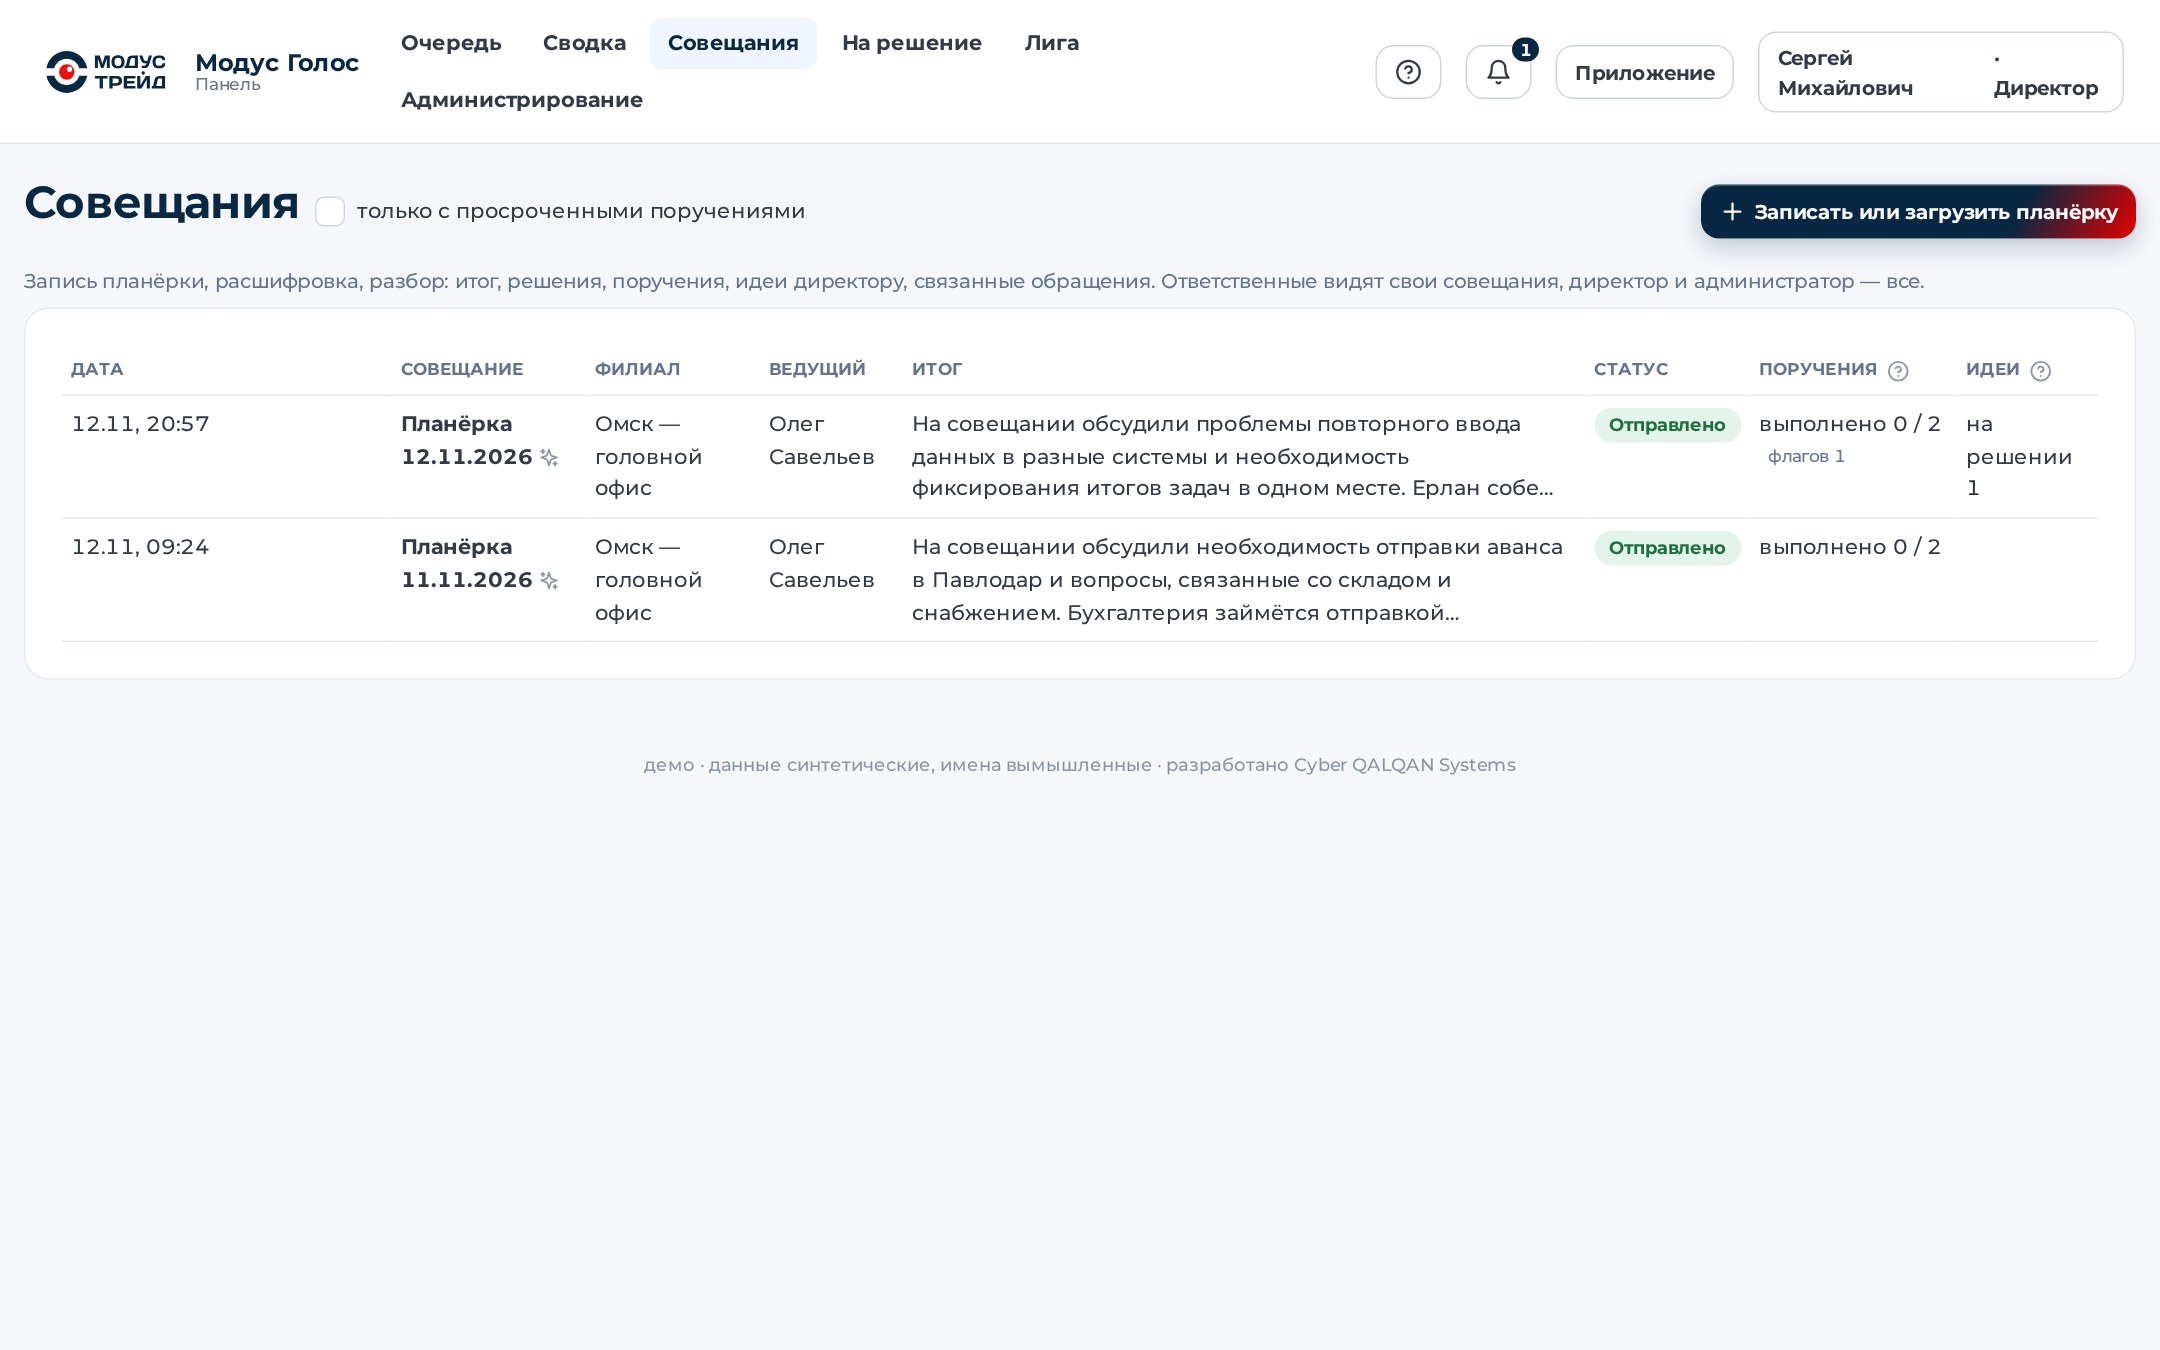
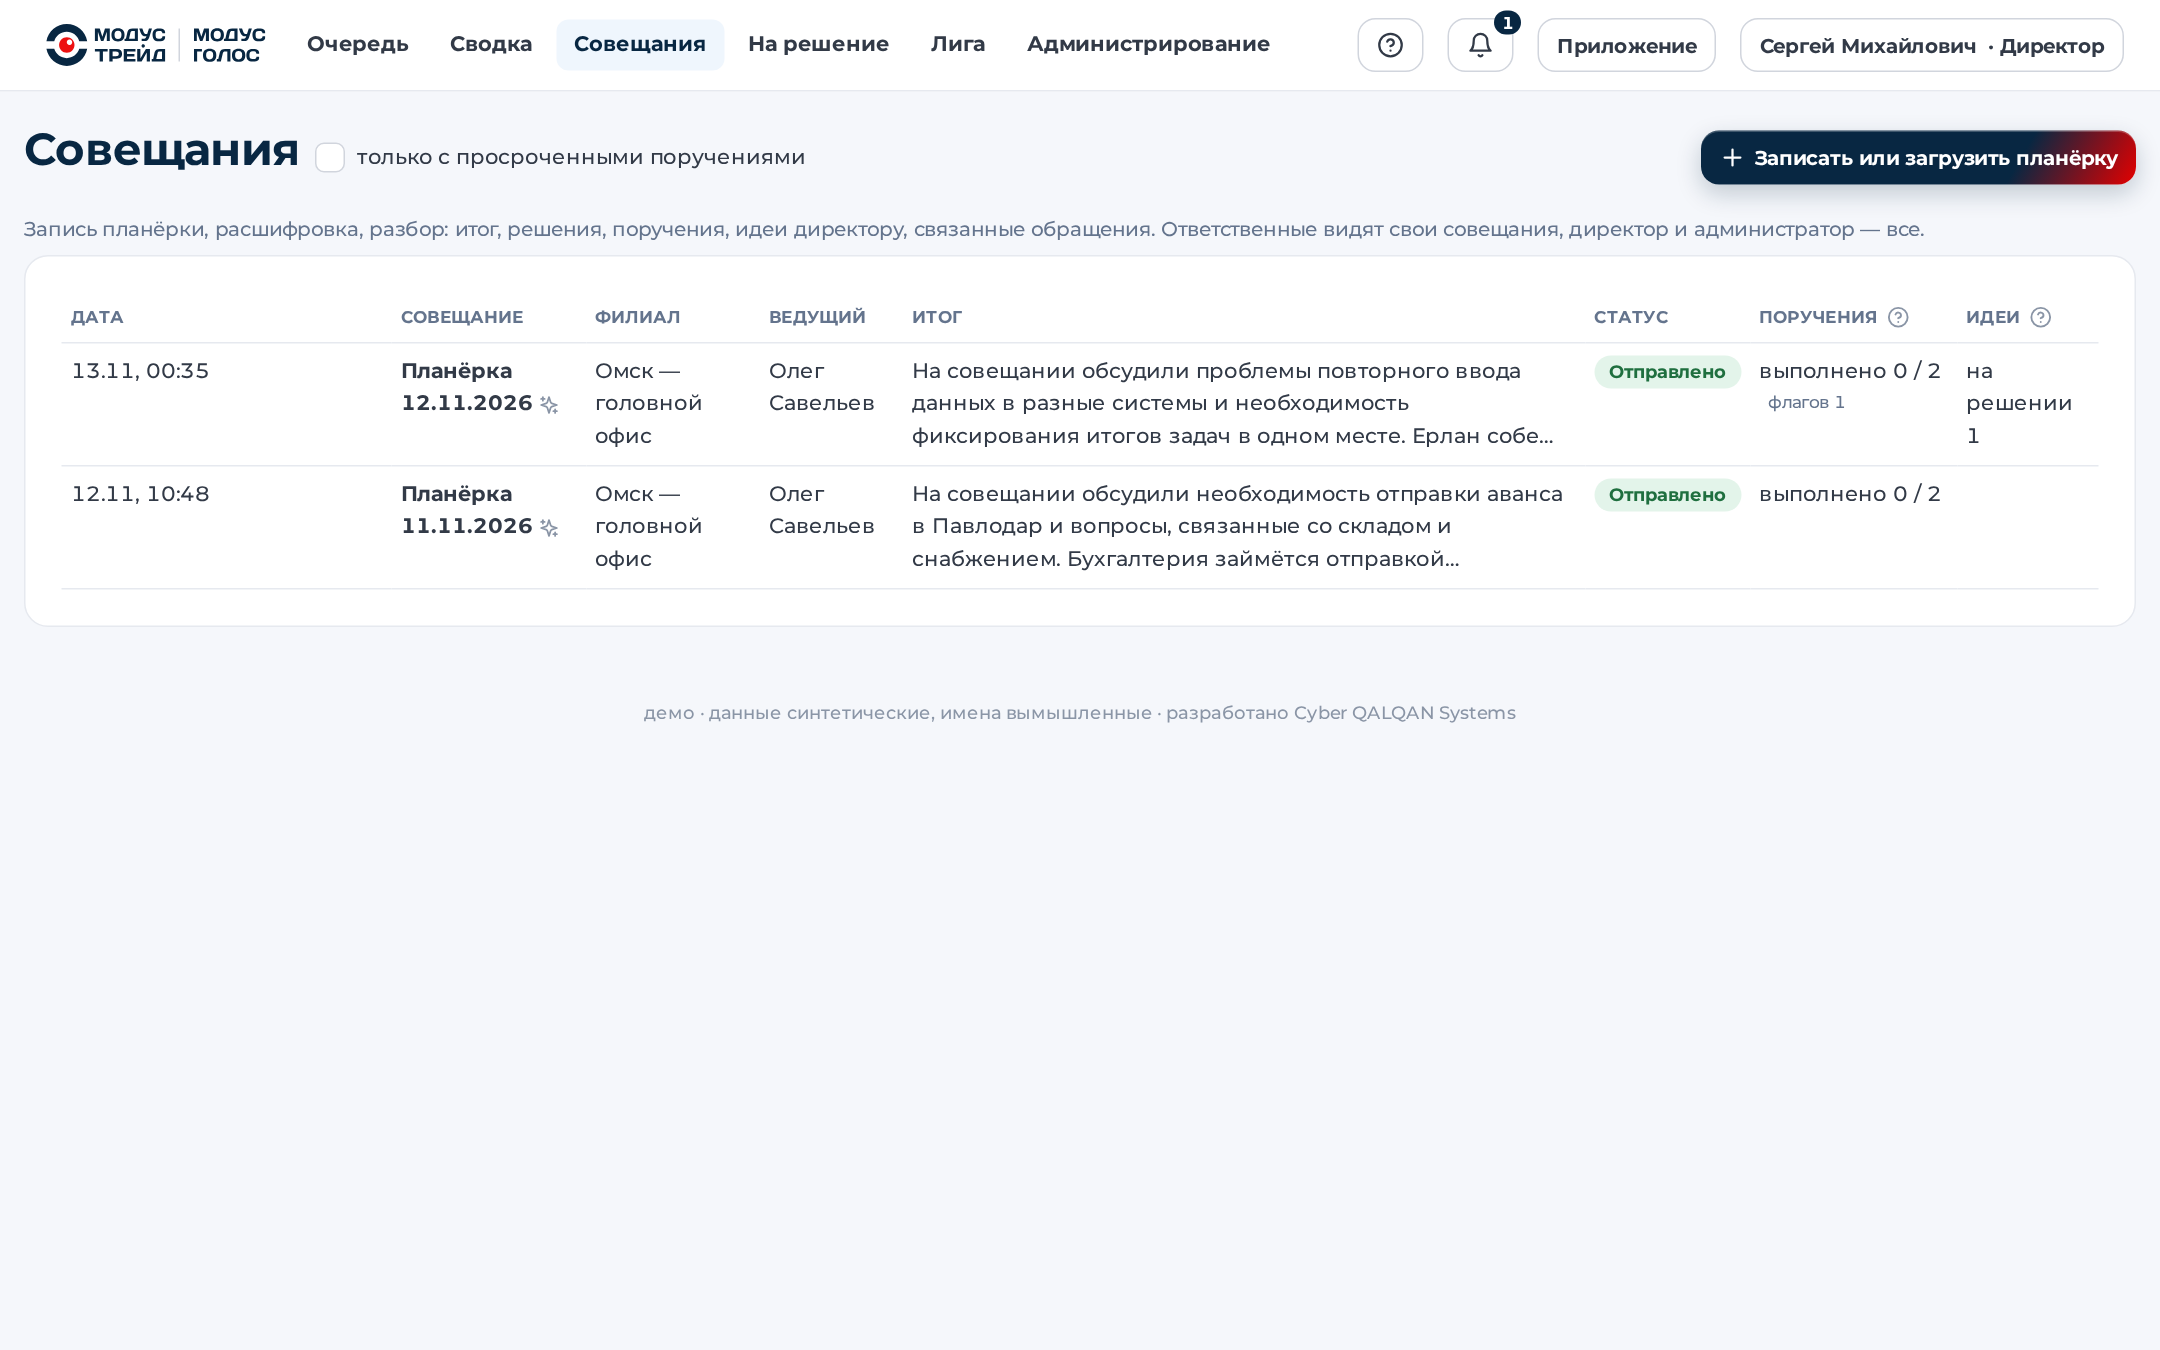
Демо-слайды пересняты со знаком «МОДУС ГОЛОС»; скрины шапок, главной и печати; STATUS
demo/slides — tools/demo_video.py --no-video, затем tools/demo_reset.sh (база = снапшот ef81456e5848). docs/screens/home: шапки
приложения и панели со знаком, главная итог 375/1440, плакат + приглашение + QR-слайд. STATUS: знак раскатан, голос marin 1.1, пуш.

diff --git a/docs/STATUS.md b/docs/STATUS.md
@@ -372,8 +372,13 @@
 - **Знак «МОДУС ГОЛОС» из контуров букв логотипа** — `tools/make_wordmark.py` → `web/a/modus-golos-wordmark.svg`: «МОДУС» — контуры
   слова из логотипа целиком; «ГОЛОС» — О и С из логотипа, Г из их Т без левой части перекладины, Л по образцу их Д (та же толщина штриха,
   углы и высота, без нижней перекладины); интервалы и шаг строк как в логотипе, система координат логотипа (высота 42), цвет логотипа.
-  **Не раскатан**: в шапку, плакаты QR (`tools/make_qr_posters.py`, приглашения `mf/staff.py`) и слайды — после «да» владельца по
-  скрину сравнения `docs/screens/home/10_wordmark_compare.png`.
+  **Раскатан 13.11 по «да» владельца**: шапка сайта, приложения и панели (`brandLock` в `ui.js`; черта ровно посередине, промежутки 0,3
+  высоты логотипа; на телефоне в полосе приложения и панели — только логотип), плакаты QR и QR-слайды (`tools/make_qr_posters.py`),
+  карточки-приглашения (`mf/staff.py`), демо-слайды пересняты. Общий модуль `mf/brand.py`: блок для PDF и картинок с той же геометрией.
+  Попутно: жирные заголовки PDF снова жирные (после нарезки вариативного шрифта все начертания назывались «Montserrat-Thin», и reportlab
+  склеивал их в одно), подписи на плакатах и приглашениях тёмно-синие (красная только черта), на QR-слайдах нет красного текста.
+- **Голос помощника — marin** (женский, выбор владельца 13.11 по образцам: «вторая девушка», скорость 1.1) с тёплой инструкцией тона, как
+  в образце (`MF_TTS_VOICE`, `MF_TTS_INSTRUCTIONS`, `MF_TTS_SPEED` в `mf/ai/llm.py`); кэш озвучки учитывает голос и тон.
 - **Сборка APK одной командой** — `tools/build_apk.sh [app|boss]`: спрашивает пароли ключа без отображения, держит их только в переменных
   окружения процесса, собирает оба TWA-проекта (`~/MODUS_ANDROID/app`, `boss`) через `bubblewrap build --skipPwaValidation`, копирует APK в
   `demo/android/`, печатает версию из `twa-manifest.json` и отпечаток подписи (должен совпадать с `web/.well-known/assetlinks.json`).
